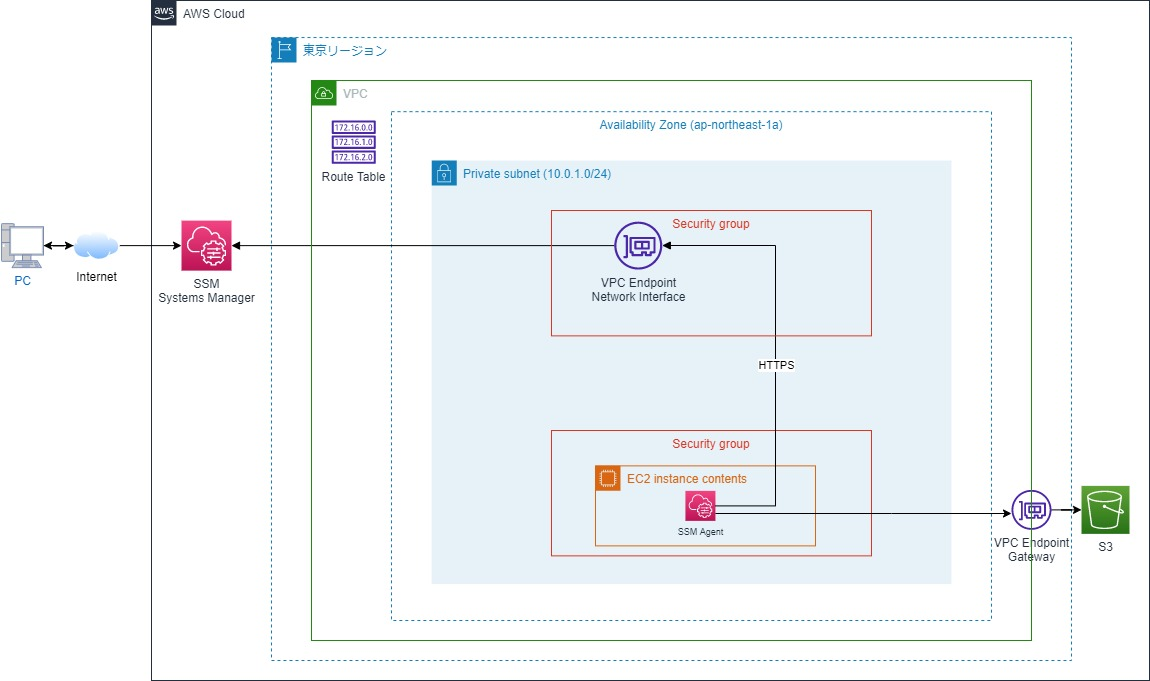
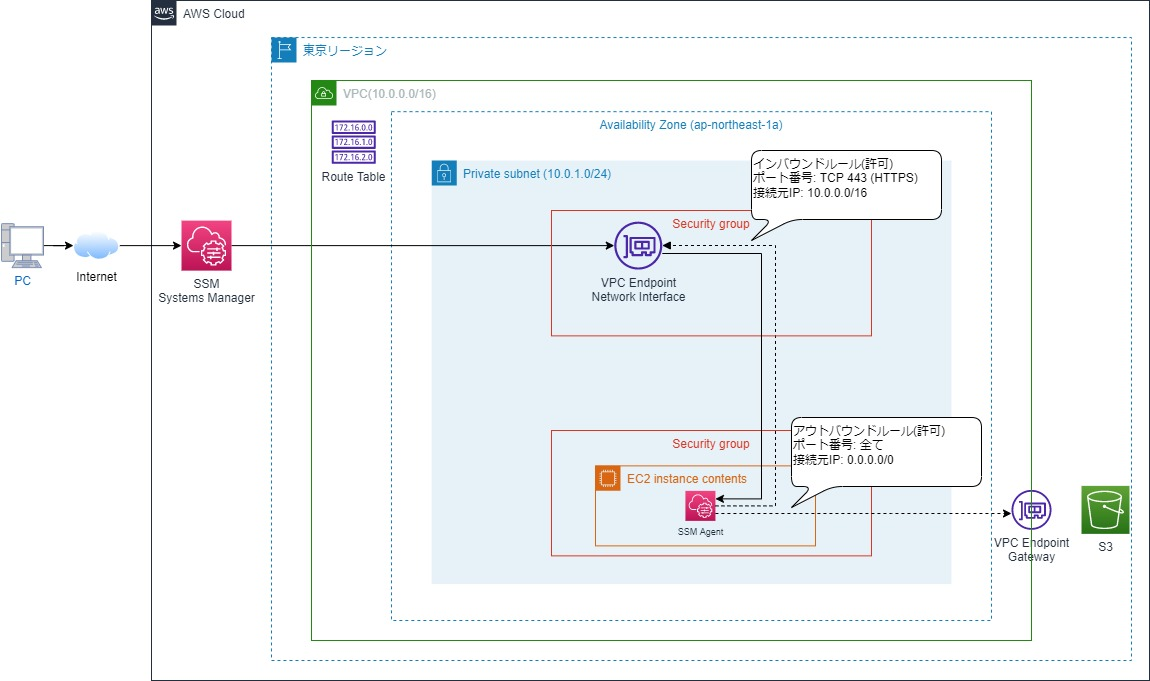
AWSシステム構成を修正

diff --git a/README.md b/README.md
@@ -13,15 +13,16 @@ Session Managerを利用して以下を実現する。
 2. ローカル端末からプライベートサブネット上のEC2インスタンス上にインストールしたNginxにHTTP接続する。
 
 ## システム構成図
-構築するシステム構成は以下の通り
-「VPC Endpoint Network Interface」は以下の3つのエンドポイントを利用する。
+構築するシステム構成は以下の通り<br>
+黒線がデータの流れを示し、点線がデータ制御を示す。<br>
+「VPC Endpoint Network Interface」は以下の3つのエンドポイントを利用する。<br>
 このエンドポイントはSession Managerと通信を行うために利用する。SSM AgentよりHTTPSのインバウンドルールを有効にすることで、Session Managerと通信を行うことが可能。
 1. com.amazonaws.ap-northeast-1.ssm
 2. com.amazonaws.ap-northeast-1.ssmmessages
 3. com.amazonaws.ap-northeast-1.ec2messages
 
-「VPC Endpoint Gateway」は以下のエンドポイントを利用する。
-このエンドポイントはS3となっているが、これを利用することで、エンドポイントから外部の環境にアクセスすることが出来、「yum update」等のコマンドを実行することが可能となる。
+「VPC Endpoint Gateway」は以下のエンドポイントを利用する。<br>
+以下のエンドポイントを利用することで、Amazon Linux2 AMI リポジトリをホストする S3 バケットへのトラフィックを許可することが出来、そのリポジトリに対して「yum update」等のコマンドを実行することが可能となる。
 1. com.amazonaws.ap-northeast-1.s3
 
 <img src="./img/sec_dev_ec2.jpg" alt="AWSシステム構成" title="AWSシステム構成">
